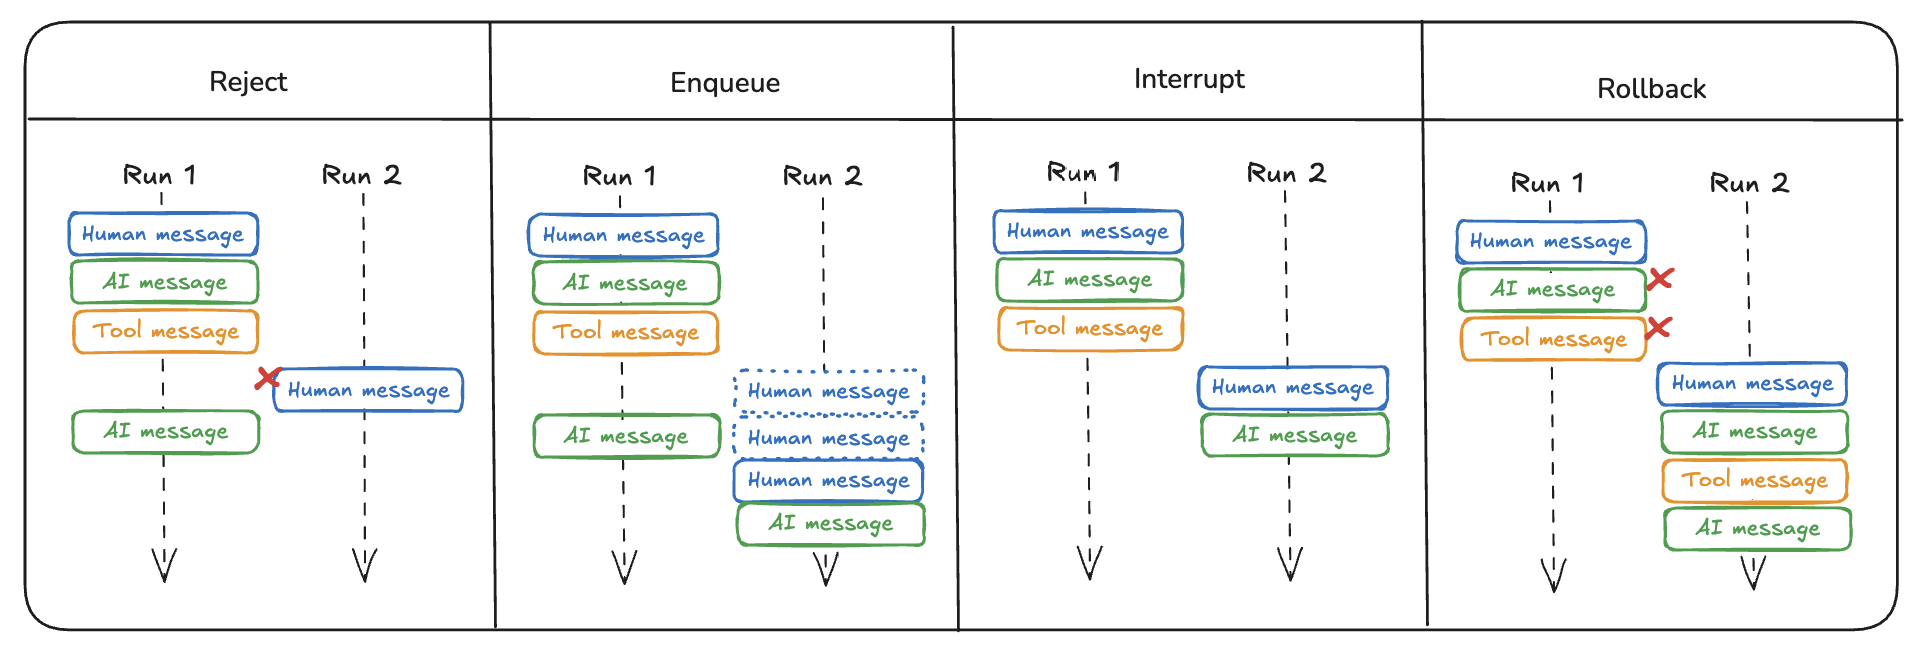
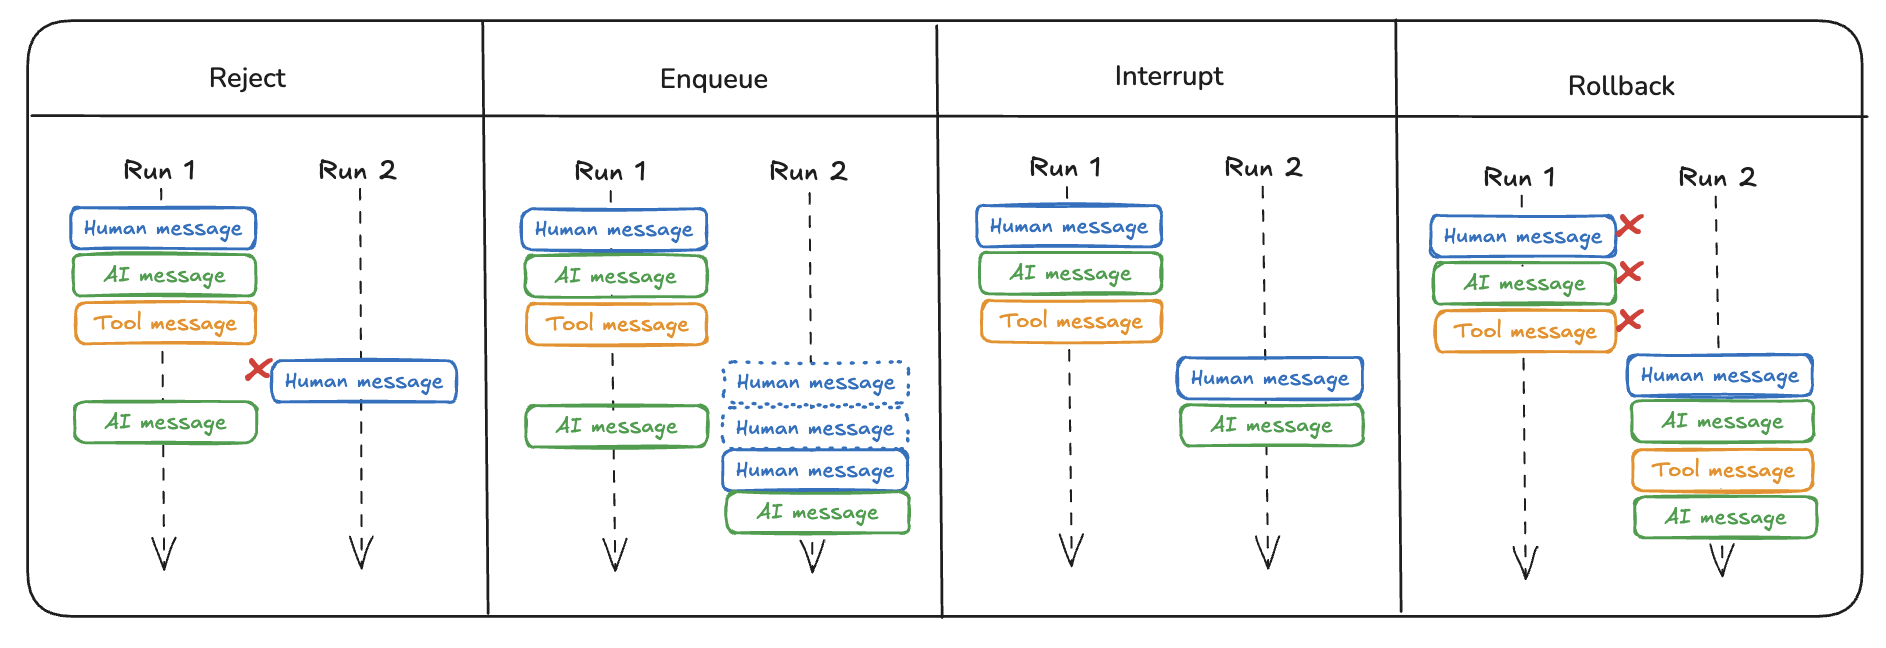
docs: update rollback in double-texting concepts (#2412)

diff --git a/docs/docs/concepts/double_texting.md b/docs/docs/concepts/double_texting.md
@@ -15,10 +15,12 @@ If you do not want to use LangGraph Platform, we describe the options we have im
 ![](img/double_texting.png)
 
 ## Reject
+
 This is the simplest option, this just rejects any follow up runs and does not allow double texting. 
 See the [how-to guide](../cloud/how-tos/reject_concurrent.md) for configuring the reject double text option.
 
 ## Enqueue
+
 This is a relatively simple option which continues the first run until it completes the whole run, then sends the new input as a separate run. 
 See the [how-to guide](../cloud/how-tos/enqueue_concurrent.md) for configuring the enqueue double text option.
 
@@ -35,10 +37,6 @@ See the [how-to guide](../cloud/how-tos/interrupt_concurrent.md) for configuring
 
 ## Rollback
 
-This option rolls back all work done up until that point. 
-It then sends the user input in, basically as if it just followed the original run input. 
-
-This may create some weird states - for example, you may have two `User` messages in a row, with no `Asssitant` message in between them. 
-You will need to make sure the LLM you are calling can handle that, or combine those into a single `User` message.
+This option interrupts the current execution AND rolls back all work done up until that point, including the original run input. It then sends the new user input in, basically as if it was the original input.
 
 See the [how-to guide](../cloud/how-tos/rollback_concurrent.md) for configuring the rollback double text option.
